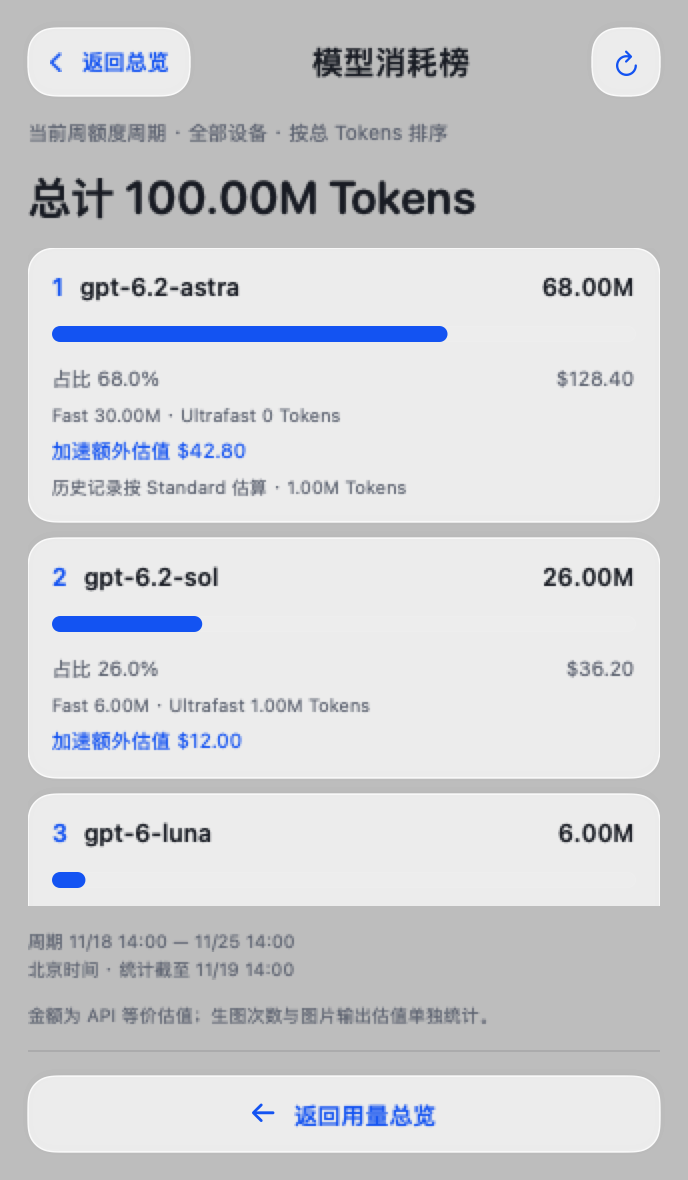
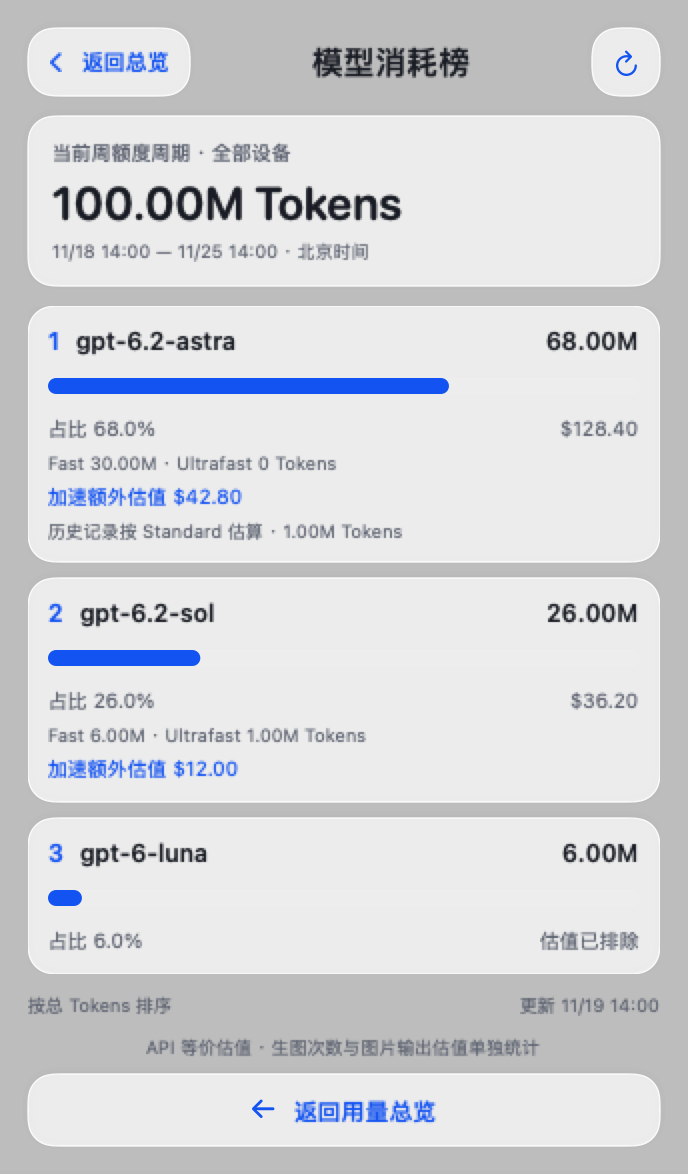
Make model ranking popovers fit their content
Version 0.4.3. Remove the fixed panel height, measure list content up to a scrolling limit and keep the return action outside the scroll area. Group the period and token total, tighten row/footer spacing, and resize when data or measured content changes without extending the dismissal timer on refresh.

Update the preview renderer and README screenshot. Validation: macOS release build and native rendered empty, single, three-model and long-list layouts passed.

diff --git a/Sources/CodexQuotaApp/DashboardView.swift b/Sources/CodexQuotaApp/DashboardView.swift
@@ -8,6 +8,7 @@ final class DashboardViewModel: ObservableObject {
     @Published var error: String?
     @Published var refreshing = false
     @Published var showsModelRankings = false
+    @Published var rankingContentHeight: CGFloat = 240
     @Published var fetchedAt: Date?
     @Published var nextRefreshAt: Date?
     var refresh: () -> Void = {}
@@ -15,6 +16,14 @@ final class DashboardViewModel: ObservableObject {
     var openSheet: () -> Void = {}
     var quit: () -> Void = {}
     var navigationChanged: () -> Void = {}
+    var layoutChanged: () -> Void = {}
+
+    func updateRankingHeight(_ height: CGFloat) {
+        let height = ceil(height)
+        guard height > 0, abs(rankingContentHeight - height) > 0.5 else { return }
+        rankingContentHeight = height
+        layoutChanged()
+    }
 
     func showOverview() {
         guard showsModelRankings else { return }
@@ -39,6 +48,13 @@ private struct ControlCenterMaterial: NSViewRepresentable {
         return view
     }
     func updateNSView(_ nsView: NSVisualEffectView, context: Context) {}
+}
+
+private struct RankingContentHeightKey: PreferenceKey {
+    static var defaultValue: CGFloat = 0
+    static func reduce(value: inout CGFloat, nextValue: () -> CGFloat) {
+        value = max(value, nextValue())
+    }
 }
 
 struct DashboardView: View {
@@ -194,7 +210,7 @@ struct DashboardView: View {
     }
 
     private func rankingCard(now: Date) -> some View {
-        VStack(alignment: .leading, spacing: 12) {
+        VStack(alignment: .leading, spacing: 10) {
             HStack(spacing: 10) {
                 Button(action: model.showOverview) {
                     Label("返回总览", systemImage: "chevron.left")
@@ -216,50 +232,94 @@ struct DashboardView: View {
                 .disabled(model.refreshing).buttonStyle(ControlCenterButtonStyle())
                 .accessibilityLabel("刷新模型消耗榜")
             }.fixedSize(horizontal: false, vertical: true)
-            Text("当前周额度周期 · 全部设备 · 按总 Tokens 排序").font(.system(size: 10)).foregroundColor(muted)
+
             if let rankings = model.dashboard?.model_rankings, rankings.isCurrent(at: now) {
-                Text("总计 \(tokens(rankings.total_tokens)) Tokens").font(.system(size: 23, weight: .semibold, design: .rounded))
-                ScrollView {
-                    VStack(spacing: 8) {
-                        ForEach(Array(rankings.models.enumerated()), id: \.element.id) { index, item in
-                            VStack(alignment: .leading, spacing: 6) {
-                                HStack { Text("\(index + 1)").foregroundColor(blue); Text(item.model).lineLimit(1).minimumScaleFactor(0.7); Spacer(); Text(tokens(item.total_tokens)).monospacedDigit() }.font(.system(size: 12, weight: .semibold))
-                                ProgressView(value: min(1, max(0, item.share))).tint(blue)
-                                HStack { Text(String(format: "占比 %.1f%%", item.share * 100)); Spacer(); Text(item.excluded ? "估值已排除" : item.cost.map { String(format: "$%.2f", $0) } ?? "待计价") }.font(.system(size: 10)).foregroundColor(muted)
-                                if item.fast_tokens + item.ultrafast_tokens > 0 {
-                                    Text("Fast \(tokens(item.fast_tokens)) · Ultrafast \(tokens(item.ultrafast_tokens)) Tokens").font(.system(size: 9)).foregroundColor(muted)
-                                    Text(item.extra_cost.map { String(format: "加速额外估值 $%.2f", $0) } ?? "加速估值待确认").font(.system(size: 10)).foregroundColor(blue)
-                                }
-                                if item.unknown_tier_tokens > 0 { Text("历史记录按 Standard 估算 · \(tokens(item.unknown_tier_tokens)) Tokens").font(.system(size: 9)).foregroundColor(muted) }
-                            }.padding(12).module()
+                VStack(alignment: .leading, spacing: 5) {
+                    Text("当前周额度周期 · 全部设备")
+                        .font(.system(size: 10, weight: .medium)).foregroundColor(muted)
+                    Text("\(tokens(rankings.total_tokens)) Tokens")
+                        .font(.system(size: 23, weight: .semibold, design: .rounded))
+                    Text("\(date(rankings.startDate, format: "MM/dd HH:mm")) — \(date(rankings.windowEndDate, format: "MM/dd HH:mm")) · 北京时间")
+                        .font(.system(size: 9)).foregroundColor(muted)
+                }.frame(maxWidth: .infinity, alignment: .leading).padding(12).module()
+
+                if rankings.models.isEmpty {
+                    Text("当前周期暂无已采集记录")
+                        .font(.system(size: 12)).foregroundColor(muted)
+                        .frame(maxWidth: .infinity).padding(.vertical, 20).module()
+                } else {
+                    ScrollView {
+                        VStack(spacing: 8) {
+                            ForEach(Array(rankings.models.enumerated()), id: \.element.id) { index, item in
+                                rankingRow(item, index: index)
+                            }
                         }
+                        .fixedSize(horizontal: false, vertical: true)
+                        .background(GeometryReader { geometry in
+                            Color.clear.preference(key: RankingContentHeightKey.self, value: geometry.size.height)
+                        })
                     }
-                }.frame(maxHeight: .infinity)
-                if rankings.models.isEmpty { Text("当前周期暂无已采集记录").font(.system(size: 12)).foregroundColor(muted) }
-                VStack(alignment: .leading, spacing: 3) {
-                    Text("周期 \(date(rankings.startDate, format: "MM/dd HH:mm")) — \(date(rankings.windowEndDate, format: "MM/dd HH:mm"))")
-                    Text("北京时间 · 统计截至 \(date(rankings.observedDate, format: "MM/dd HH:mm"))")
+                    .frame(height: min(model.rankingContentHeight, 340))
+                    .onPreferenceChange(RankingContentHeightKey.self) { model.updateRankingHeight($0) }
+                }
+                HStack {
+                    Text("按总 Tokens 排序")
+                    Spacer()
+                    Text("更新 \(date(rankings.observedDate, format: "MM/dd HH:mm"))")
                 }.font(.system(size: 9)).foregroundColor(muted)
             } else {
-                Text("等待当前周期排行").font(.system(size: 13))
-                Text("正在等待有效的周额度重置时间和同步数据，请刷新看板。").font(.system(size: 11)).foregroundColor(muted)
+                VStack(alignment: .leading, spacing: 6) {
+                    Text("等待当前周期排行").font(.system(size: 13, weight: .medium))
+                    Text("正在等待有效的周额度重置时间和同步数据，请刷新看板。")
+                        .font(.system(size: 11)).foregroundColor(muted)
+                    Button("打开 Google Sheets", action: model.openSheet).font(.system(size: 11))
+                }.frame(maxWidth: .infinity, alignment: .leading).padding(12).module()
+            }
+            if model.error != nil {
+                Text("离线缓存：榜单可能不是最新数据")
+                    .font(.system(size: 10)).foregroundColor(.orange)
+            }
+            VStack(spacing: 8) {
+                Text("API 等价估值 · 生图次数与图片输出估值单独统计")
+                    .font(.system(size: 9)).foregroundColor(muted)
+                Button(action: model.showOverview) {
+                    Label("返回用量总览", systemImage: "arrow.left")
+                        .font(.system(size: 12, weight: .semibold))
+                        .foregroundColor(blue)
+                        .frame(maxWidth: .infinity).frame(height: 36)
+                        .contentShape(Rectangle())
+                }
+                .buttonStyle(ControlCenterButtonStyle())
+                .accessibilityHint("返回额度、今日 Tokens 和设备估值")
+            }.fixedSize(horizontal: false, vertical: true)
+        }.padding(14).foregroundColor(ink)
+    }
+
+    private func rankingRow(_ item: SheetsDashboard.ModelUsage, index: Int) -> some View {
+        VStack(alignment: .leading, spacing: 5) {
+            HStack {
+                Text("\(index + 1)").foregroundColor(blue)
+                Text(item.model).lineLimit(1).minimumScaleFactor(0.7)
                 Spacer()
-                Button("打开 Google Sheets", action: model.openSheet)
+                Text(tokens(item.total_tokens)).monospacedDigit()
+            }.font(.system(size: 12, weight: .semibold))
+            ProgressView(value: min(1, max(0, item.share))).tint(blue)
+            HStack {
+                Text(String(format: "占比 %.1f%%", item.share * 100))
+                Spacer()
+                Text(item.excluded ? "估值已排除" : item.cost.map { String(format: "$%.2f", $0) } ?? "待计价")
+            }.font(.system(size: 10)).foregroundColor(muted)
+            if item.fast_tokens + item.ultrafast_tokens > 0 {
+                Text("Fast \(tokens(item.fast_tokens)) · Ultrafast \(tokens(item.ultrafast_tokens)) Tokens")
+                    .font(.system(size: 9)).foregroundColor(muted)
+                Text(item.extra_cost.map { String(format: "加速额外估值 $%.2f", $0) } ?? "加速估值待确认")
+                    .font(.system(size: 10)).foregroundColor(blue)
             }
-            if model.error != nil { Text("离线缓存：榜单可能不是最新数据").font(.system(size: 10)).foregroundColor(.orange) }
-            Text("金额为 API 等价估值；生图次数与图片输出估值单独统计。").font(.system(size: 9)).foregroundColor(muted)
-            Divider().opacity(0.6)
-            Button(action: model.showOverview) {
-                Label("返回用量总览", systemImage: "arrow.left")
-                    .font(.system(size: 12, weight: .semibold))
-                    .foregroundColor(blue)
-                    .frame(maxWidth: .infinity).frame(height: 38)
-                    .contentShape(Rectangle())
+            if item.unknown_tier_tokens > 0 {
+                Text("历史记录按 Standard 估算 · \(tokens(item.unknown_tier_tokens)) Tokens")
+                    .font(.system(size: 9)).foregroundColor(muted)
             }
-            .buttonStyle(ControlCenterButtonStyle())
-            .accessibilityHint("返回额度、今日 Tokens 和设备估值")
-            .fixedSize(horizontal: false, vertical: true)
-        }.padding(14).frame(height: 590).foregroundColor(ink)
+        }.padding(10).module()
     }
 
     private func statistic(icon: String, title: String, value: String) -> some View {

diff --git a/Sources/CodexQuotaApp/StatusMenuController.swift b/Sources/CodexQuotaApp/StatusMenuController.swift
@@ -39,6 +39,9 @@ final class StatusMenuController: NSObject, NSPopoverDelegate {
         model.quit = { NSApp.terminate(nil) }
         model.navigationChanged = { [weak self] in
             // Re-measure after SwiftUI has applied the navigation state change.
+            DispatchQueue.main.async { self?.resizeCard(resetDismiss: true) }
+        }
+        model.layoutChanged = { [weak self] in
             DispatchQueue.main.async { self?.resizeCard() }
         }
         popover.behavior = .transient
@@ -76,13 +79,13 @@ final class StatusMenuController: NSObject, NSPopoverDelegate {
         resetAutoDismiss()
     }
 
-    private func resizeCard() {
+    private func resizeCard(resetDismiss: Bool = false) {
         guard !stopped, let host = popover.contentViewController else { return }
         host.view.layoutSubtreeIfNeeded()
         let size = host.view.fittingSize
         host.preferredContentSize = size
         popover.contentSize = size
-        if popover.isShown { resetAutoDismiss() }
+        if popover.isShown && resetDismiss { resetAutoDismiss() }
     }
 
     private func resetAutoDismiss() {
@@ -175,6 +178,7 @@ final class StatusMenuController: NSObject, NSPopoverDelegate {
                     self.model.error = error.localizedDescription
                 }
                 self.updateStatusItem()
+                DispatchQueue.main.async { self.resizeCard() }
                 self.model.nextRefreshAt = Date().addingTimeInterval(interval)
                 let timer = Timer(timeInterval: interval, repeats: false) { [weak self] _ in
                     MainActor.assumeIsolated { self?.refresh() }

diff --git a/Sources/CodexQuotaApp/main.swift b/Sources/CodexQuotaApp/main.swift
@@ -36,6 +36,12 @@ if let previewIndex = CommandLine.arguments.firstIndex(of: "--render-dashboard-p
             let view = NSHostingView(rootView: DashboardView(model: model))
             view.frame = NSRect(origin: .zero, size: view.fittingSize)
             view.layoutSubtreeIfNeeded()
+            // Let content-height preferences settle before rendering the preview.
+            for _ in 0..<5 {
+                RunLoop.current.run(until: Date().addingTimeInterval(0.04))
+                view.frame = NSRect(origin: .zero, size: view.fittingSize)
+                view.layoutSubtreeIfNeeded()
+            }
             guard let bitmap = view.bitmapImageRepForCachingDisplay(in: view.bounds) else {
                 throw CocoaError(.fileWriteUnknown)
             }

diff --git a/README.md b/README.md
@@ -40,7 +40,7 @@ Tokivue 将本地用量采集器、Google Sheets 汇总接收端和 macOS 原生
 
 <img src="docs/images/model-rankings.png" alt="当前周期模型排行，含 Fast 额外估值；虚构示例数据" width="344" />
 
-0.4.1：排行榜顶部和底部均可返回总览，重新打开弹窗默认显示总览。统计范围与当前周额度周期一致；缺少有效额度快照时等待同步。
+0.4.3：排行榜高度随内容收紧，长列表滚动，底部返回按钮固定可见；顶部和底部均可返回总览，重新打开弹窗默认显示总览。统计范围与当前周额度周期一致；缺少有效额度快照时等待同步。
 
 示意图使用虚构数据。Fast／Ultrafast Tokens 是实际 Tokens 中的档位分类，不会再乘倍率计入总 Tokens。
 
